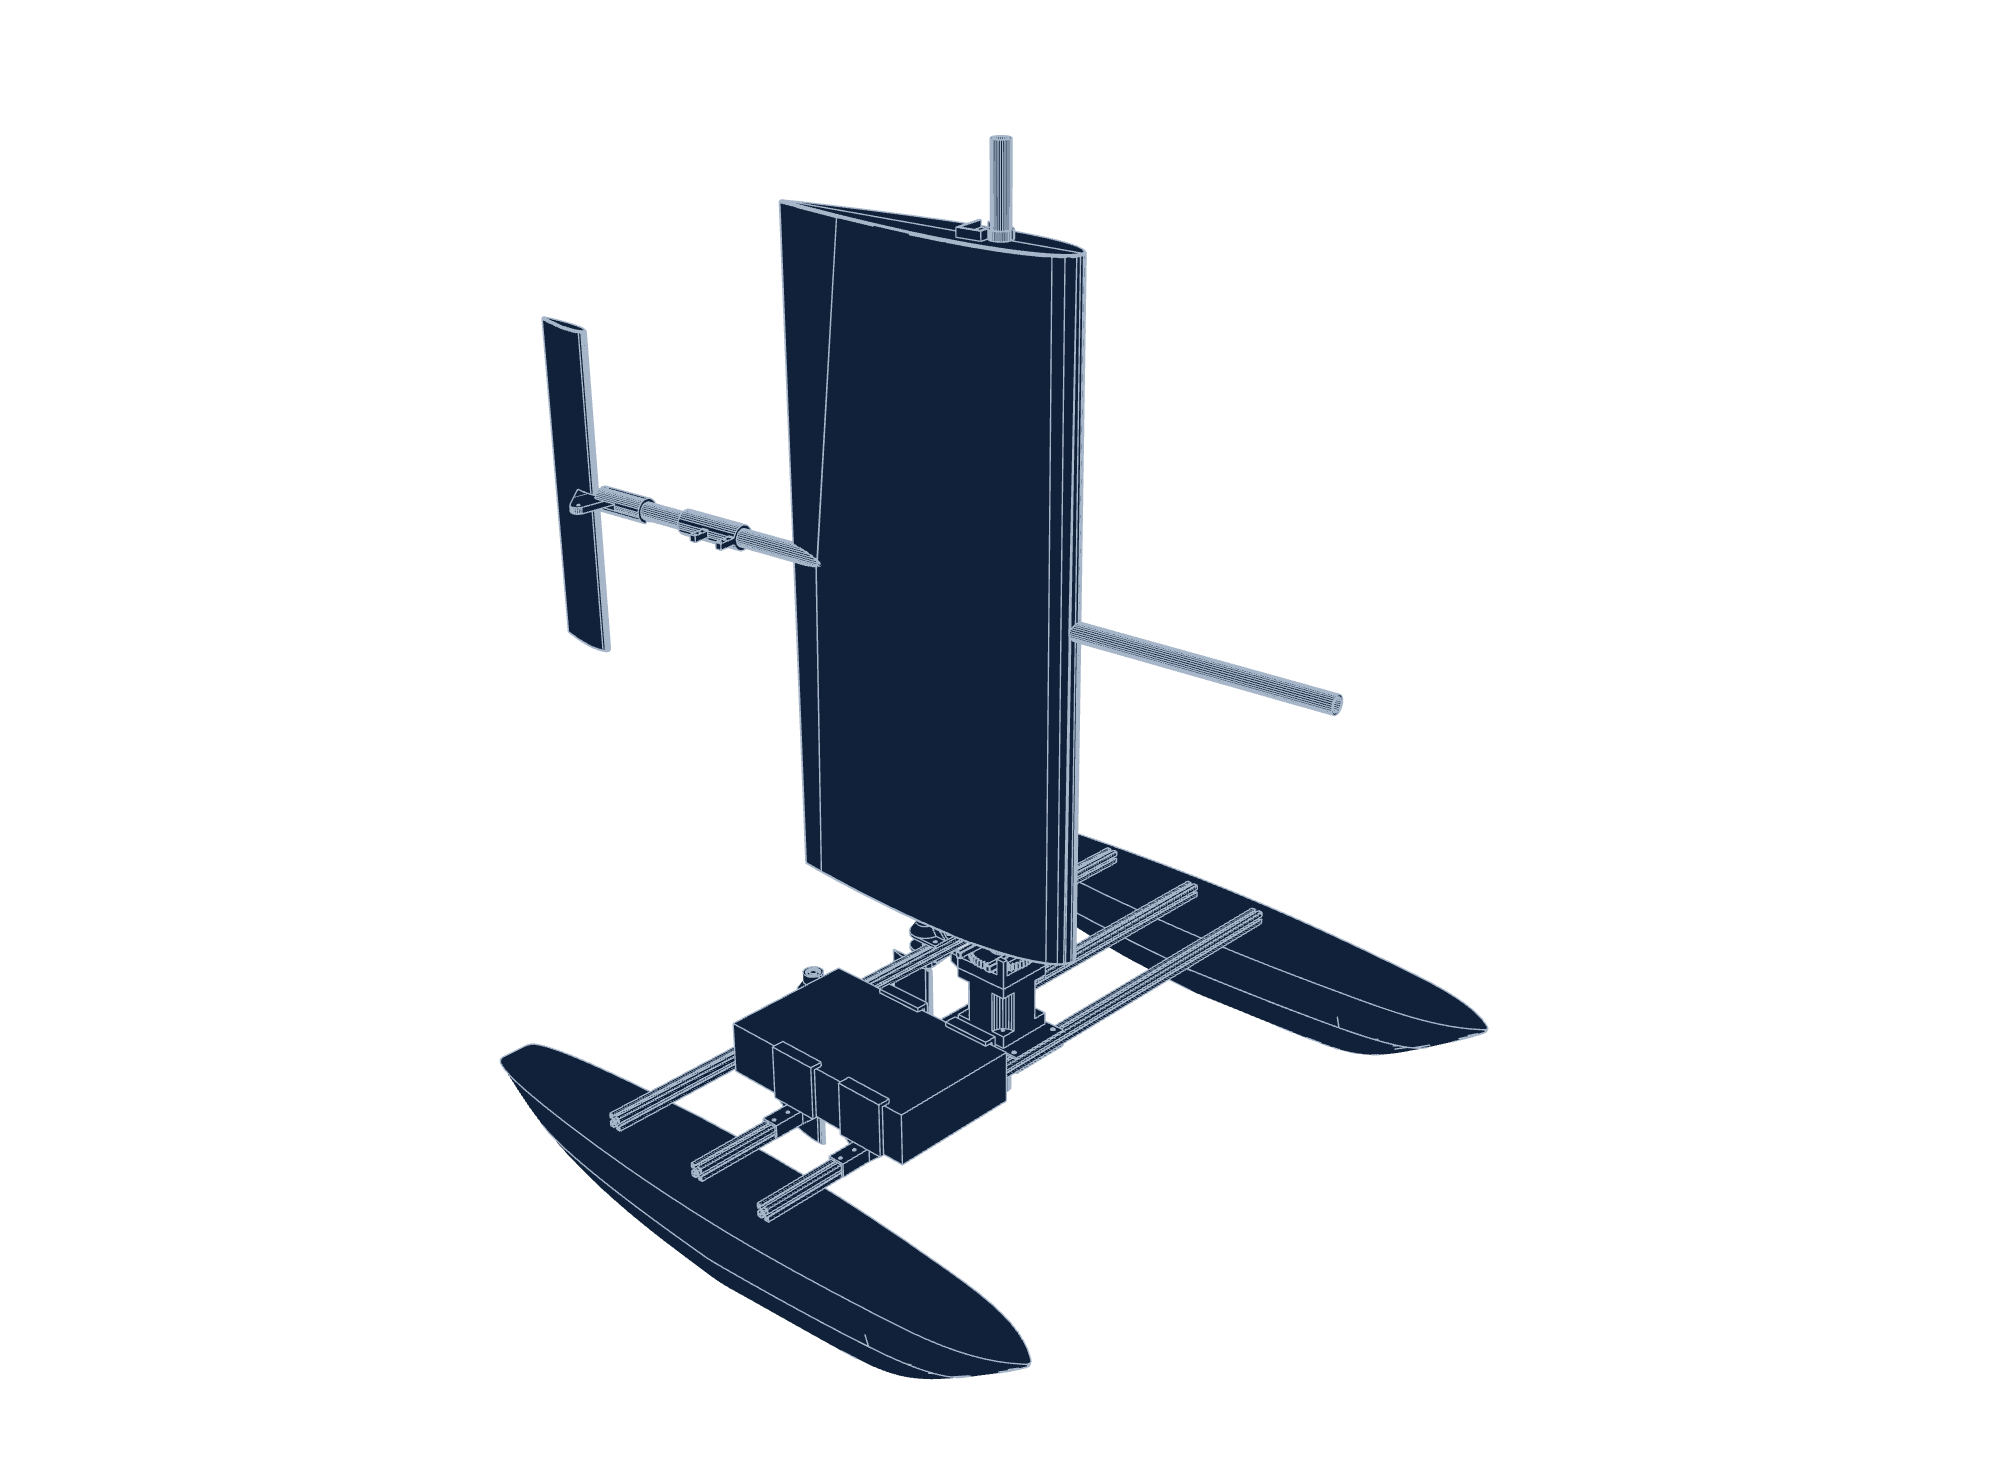
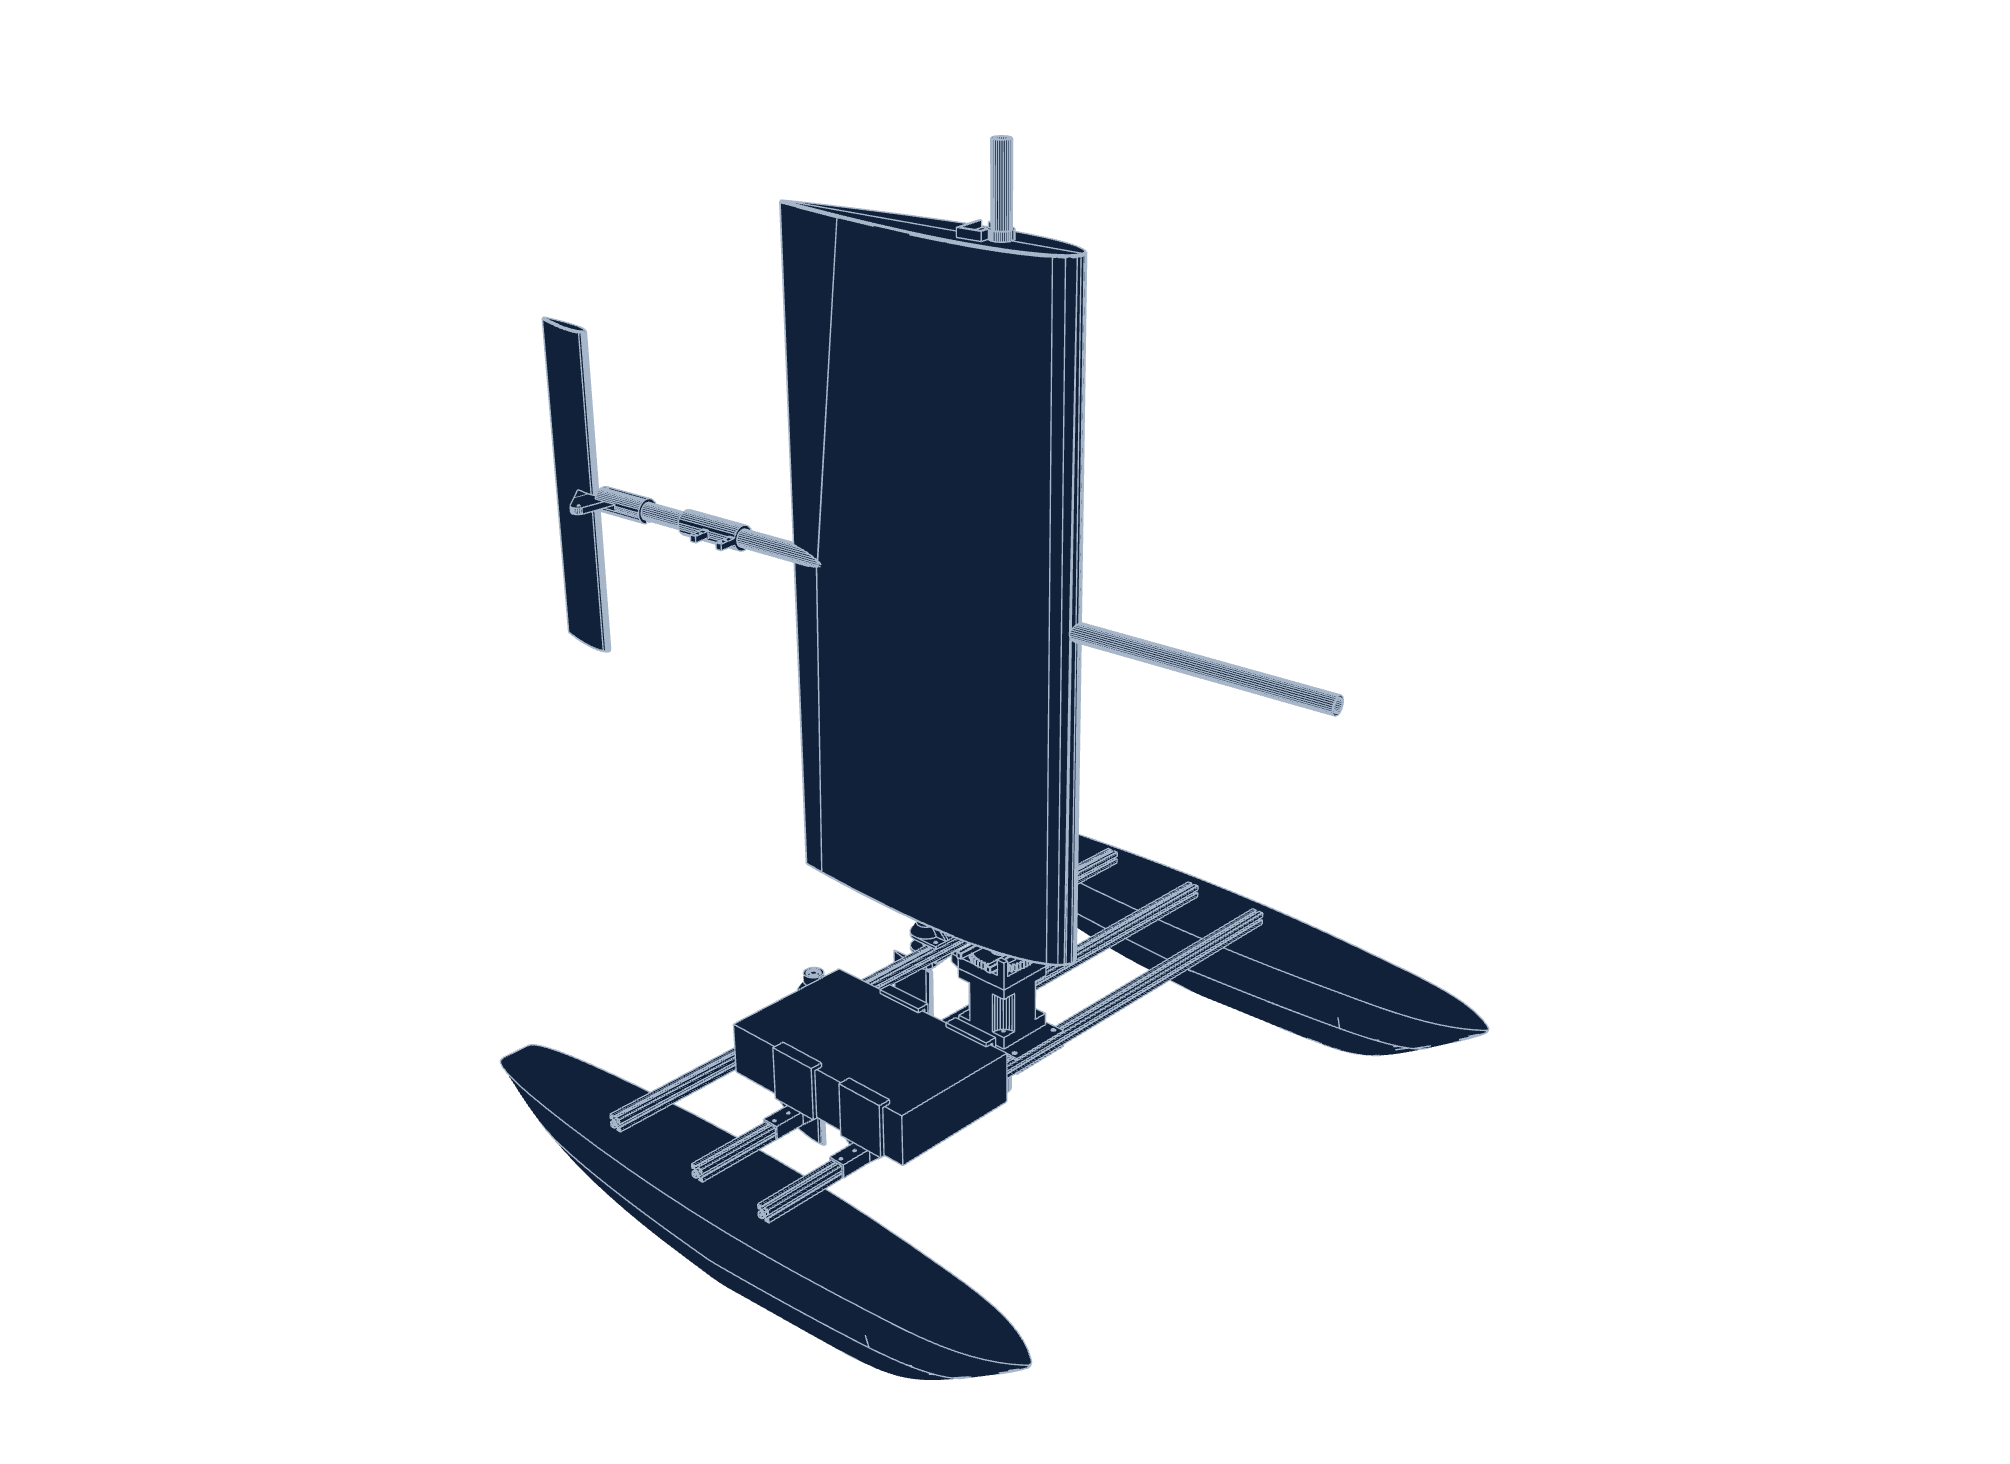
Align Catamaran sail rest phase to 0 so blueprint and shaded starting poses match identically

diff --git a/src/context/TransformCalibrationContext.tsx b/src/context/TransformCalibrationContext.tsx
@@ -156,7 +156,7 @@ const BUILTIN_MODEL_DEFAULTS: Record<string, Partial<RegisteredModelDefaults>> =
         amplitude: 34,
         amplitudePositive: 10,
         amplitudeNegative: 10,
-        phase: 20,
+        phase: 0,
         pivotMode: 'custom',
         pivotX: 0,
         pivotY: 0,
@@ -191,7 +191,7 @@ const BUILTIN_MODEL_DEFAULTS: Record<string, Partial<RegisteredModelDefaults>> =
         amplitude: 30,
         amplitudePositive: 10,
         amplitudeNegative: 10,
-        phase: 20,
+        phase: 0,
         pivotMode: 'custom',
         pivotX: 0,
         pivotY: 55,

diff --git a/src/canvas/models/CatamaranModel.tsx b/src/canvas/models/CatamaranModel.tsx
@@ -76,7 +76,7 @@ const DEFAULT_PART_ANIMATIONS: Record<number, PartAnimationConfig> = {
     amplitude: 34,
     amplitudePositive: 10,
     amplitudeNegative: 10,
-    phase: 20,
+    phase: 0,
     pivotMode: 'custom',
     pivotX: 0,
     pivotY: 0,
@@ -111,7 +111,7 @@ const DEFAULT_PART_ANIMATIONS: Record<number, PartAnimationConfig> = {
     amplitude: 30,
     amplitudePositive: 10,
     amplitudeNegative: 10,
-    phase: 20,
+    phase: 0,
     pivotMode: 'custom',
     pivotX: 0,
     pivotY: 55,
